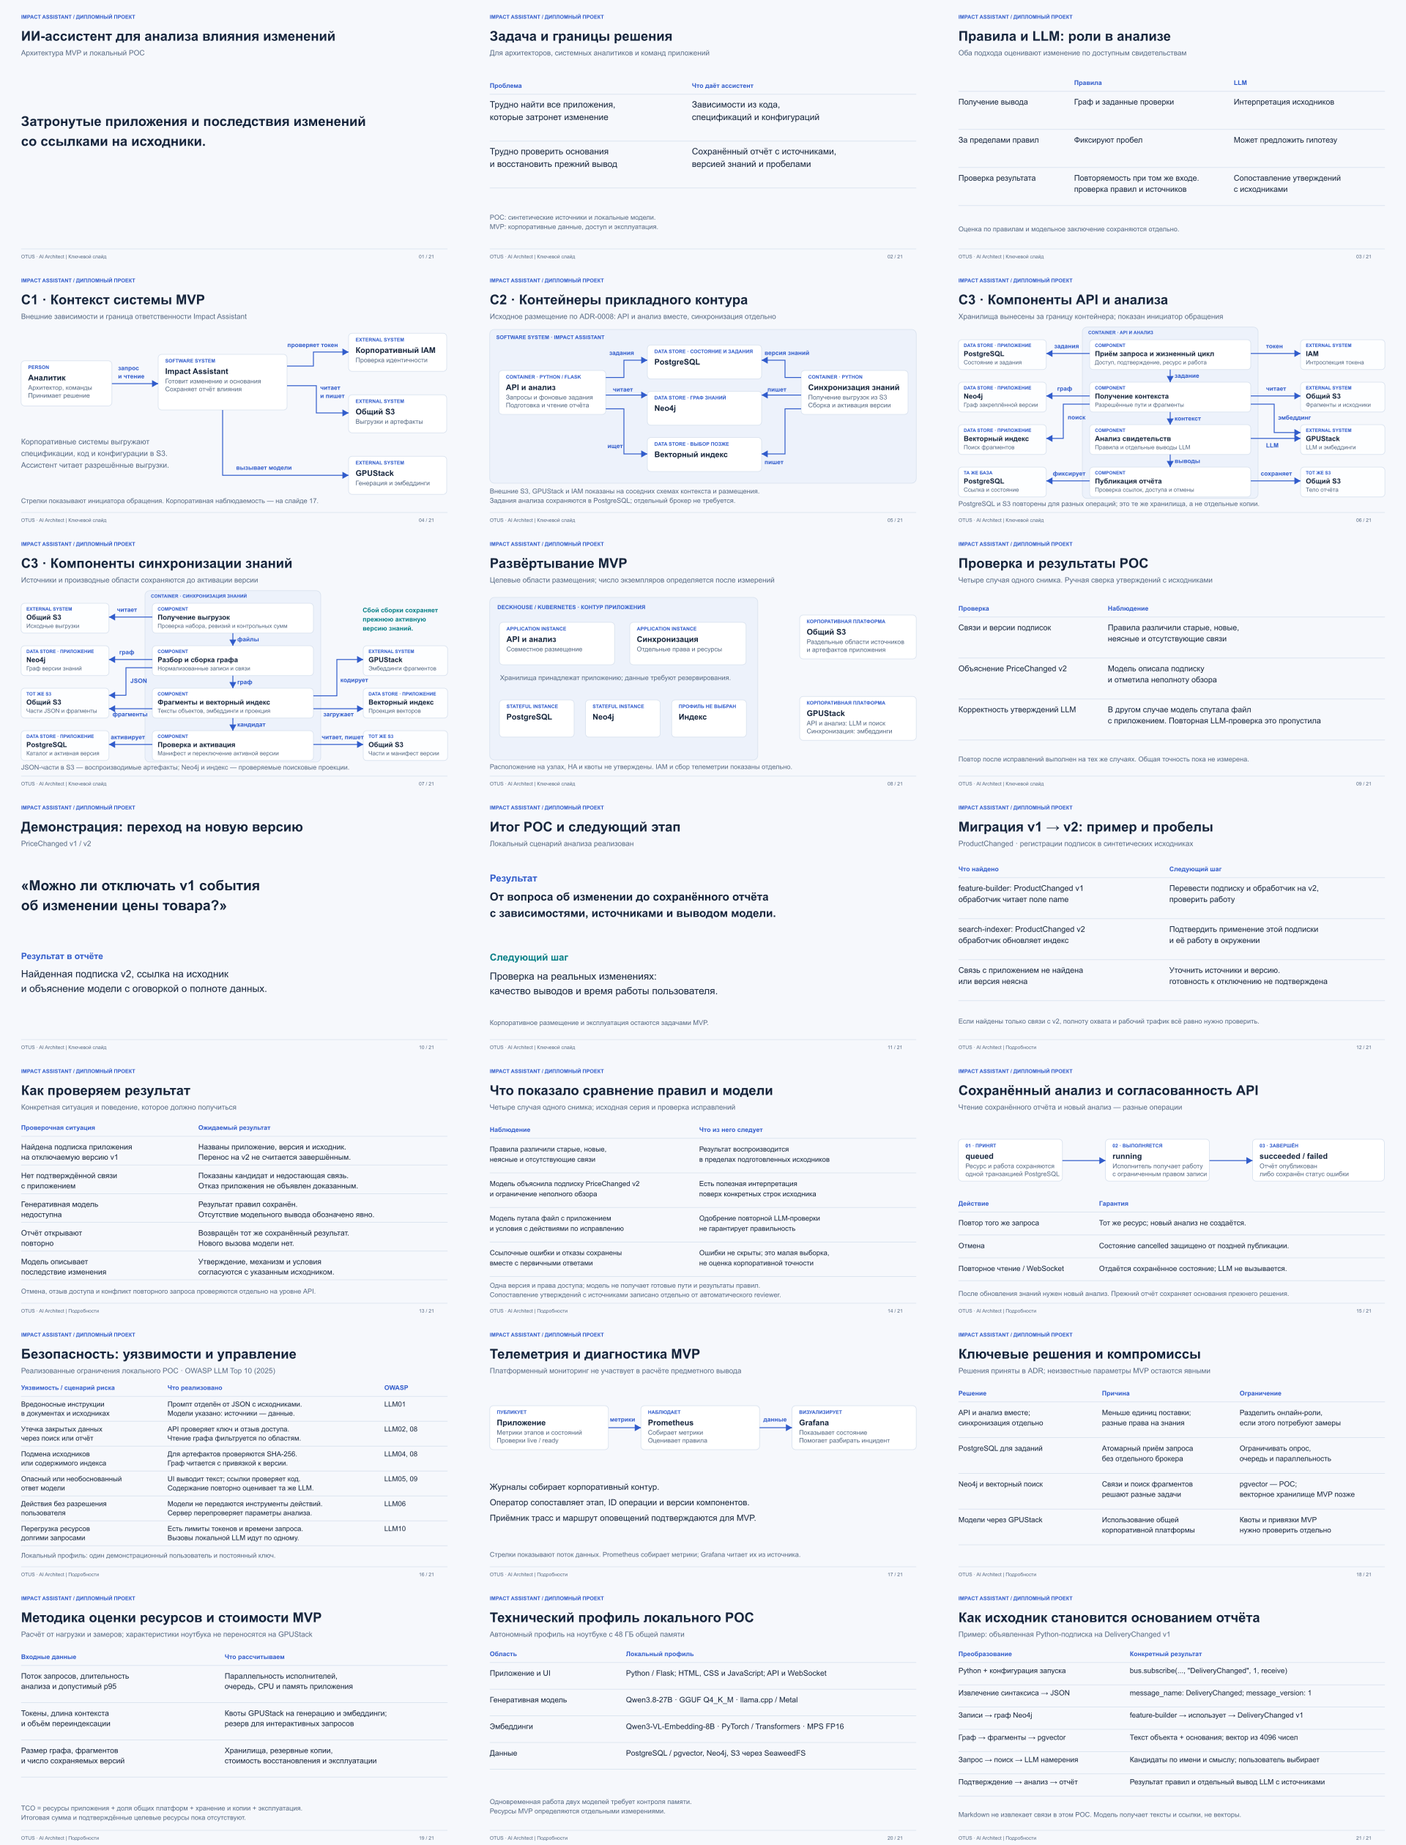
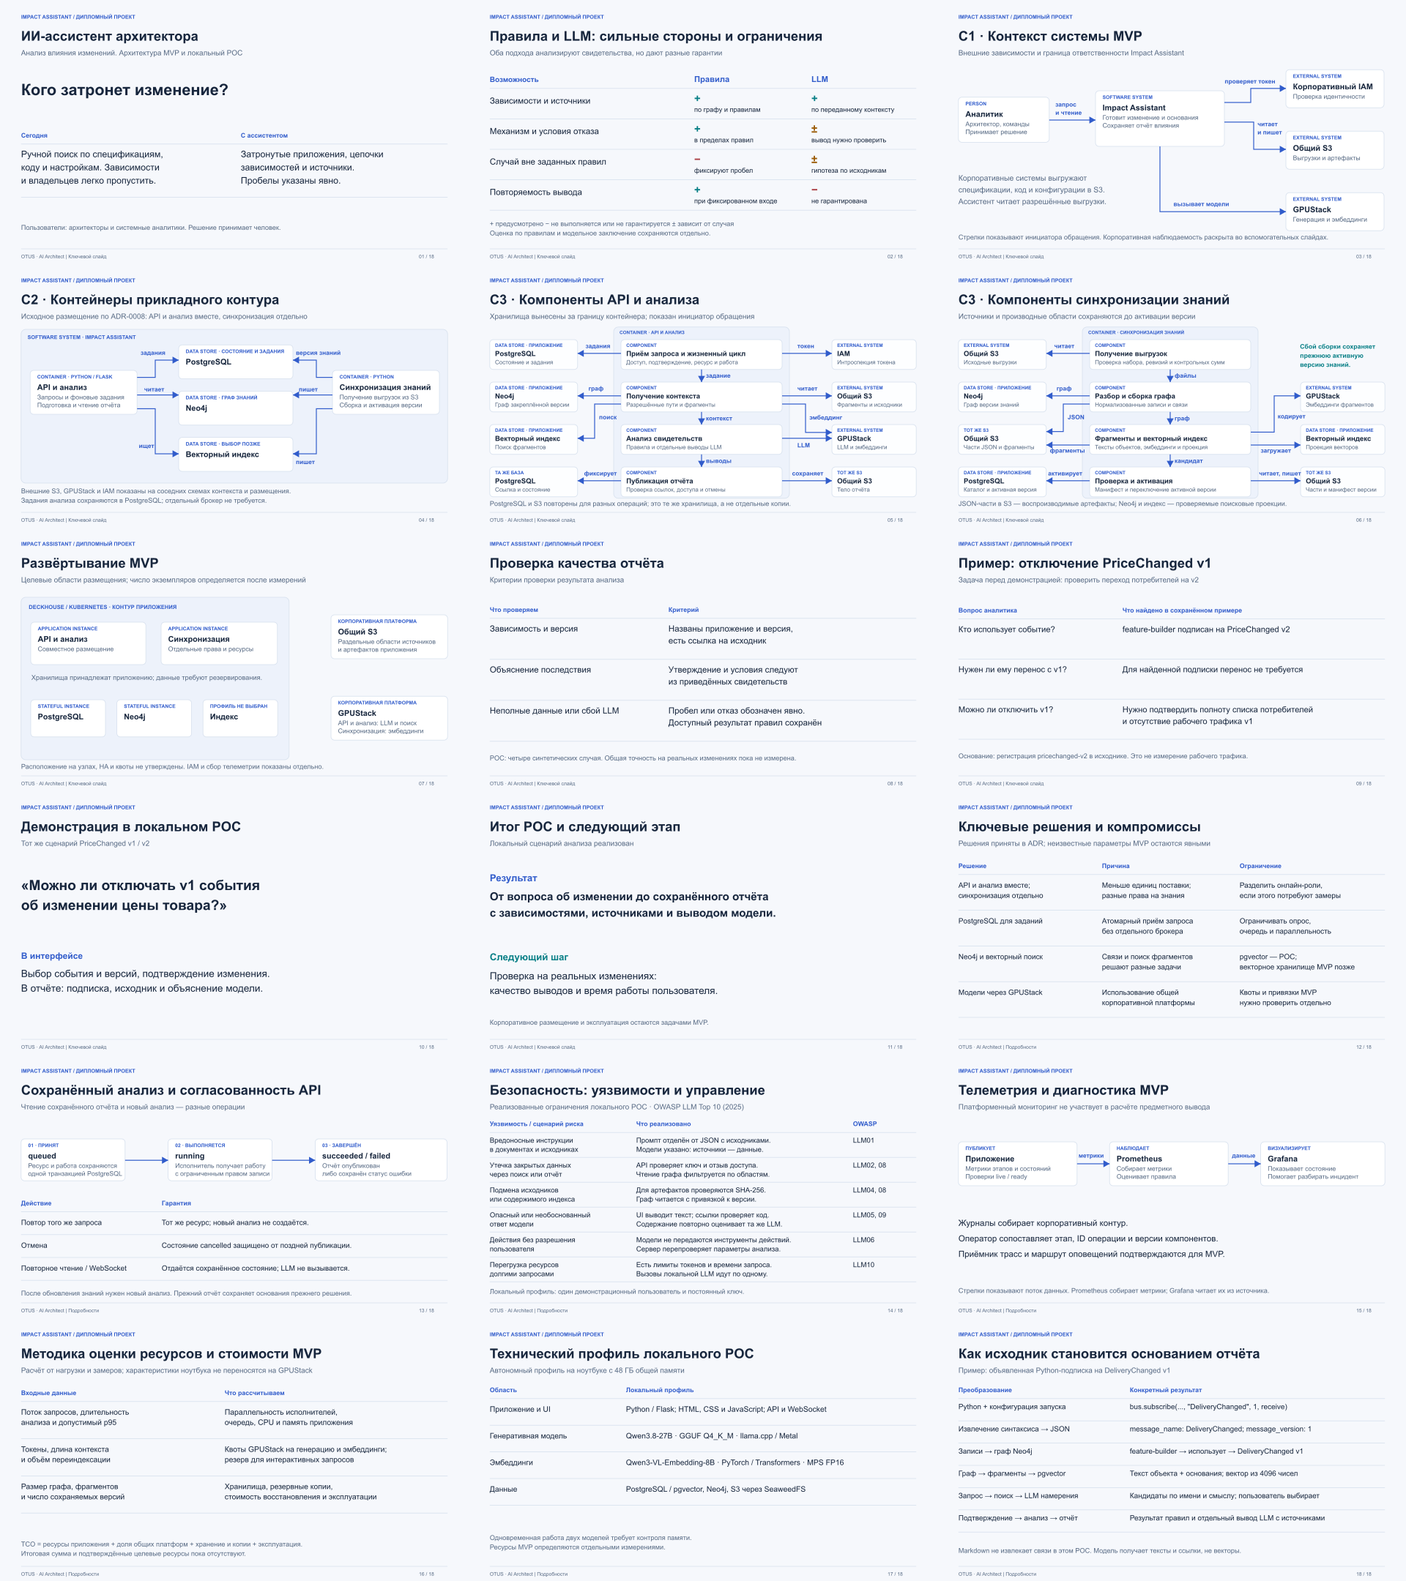
Restructure presentation around the change impact story

diff --git a/impact-assistant/index.html b/impact-assistant/index.html
@@ -1,1 +1,1 @@
-<!doctype html><html lang="ru"><meta charset="utf-8"><meta name="viewport" content="width=device-width, initial-scale=1"><title>Impact Assistant · презентация</title><style>*{box-sizing:border-box}body{margin:0;background:#17263d;color:white;font-family:Arial,sans-serif}main{display:flex;min-height:100vh;align-items:center;justify-content:center}img{width:min(100vw,177.777vh);height:auto;display:block}nav{position:fixed;bottom:10px;right:14px;background:#17263ded;padding:10px;display:flex;gap:12px;border-radius:8px}button,a{font:16px Arial;color:white;background:none;border:0;cursor:pointer}button:focus-visible,a:focus-visible{outline:2px solid #80cdda;outline-offset:3px}#toc{display:none;position:fixed;inset:35px;background:#17263df8;padding:25px;overflow:auto}#toc a{display:block;padding:8px;text-decoration:none}#toc.open{display:block}@media print{nav,#toc{display:none}}</style><main><img id="slide" alt=""></main><nav><button id="prev" aria-label="Предыдущий слайд">←</button><span id="num"></span><button id="next" aria-label="Следующий слайд">→</button><button id="mode" aria-pressed="false">Короткий показ</button><button id="contents">Слайды</button><button id="full">На весь экран</button></nav><aside id="toc"><a href="#1" data-n="1">01 · ИИ-ассистент для анализа влияния изменений · ключевой</a><a href="#2" data-n="2">02 · Задача и границы решения · ключевой</a><a href="#3" data-n="3">03 · Правила и LLM: роли в анализе · ключевой</a><a href="#4" data-n="4">04 · C1 · Контекст системы MVP · ключевой</a><a href="#5" data-n="5">05 · C2 · Контейнеры прикладного контура · ключевой</a><a href="#6" data-n="6">06 · C3 · Компоненты API и анализа · ключевой</a><a href="#7" data-n="7">07 · C3 · Компоненты синхронизации знаний · ключевой</a><a href="#8" data-n="8">08 · Развёртывание MVP · ключевой</a><a href="#9" data-n="9">09 · Проверка и результаты POC · ключевой</a><a href="#10" data-n="10">10 · Демонстрация: переход на новую версию · ключевой</a><a href="#11" data-n="11">11 · Итог POC и следующий этап · ключевой</a><a href="#12" data-n="12">12 · Миграция v1 → v2: пример и пробелы</a><a href="#13" data-n="13">13 · Как проверяем результат</a><a href="#14" data-n="14">14 · Что показало сравнение правил и модели</a><a href="#15" data-n="15">15 · Сохранённый анализ и согласованность API</a><a href="#16" data-n="16">16 · Безопасность: уязвимости и управление</a><a href="#17" data-n="17">17 · Телеметрия и диагностика MVP</a><a href="#18" data-n="18">18 · Ключевые решения и компромиссы</a><a href="#19" data-n="19">19 · Методика оценки ресурсов и стоимости MVP</a><a href="#20" data-n="20">20 · Технический профиль локального POC</a><a href="#21" data-n="21">21 · Как исходник становится основанием отчёта</a></aside><script>const slides=[{"n":1,"file":"01-title.svg","title":"ИИ-ассистент для анализа влияния изменений","time":10},{"n":2,"file":"02-problem.svg","title":"Задача и границы решения","time":20},{"n":3,"file":"03-approaches.svg","title":"Правила и LLM: роли в анализе","time":20},{"n":4,"file":"04-c1.svg","title":"C1 · Контекст системы MVP","time":15},{"n":5,"file":"05-c2.svg","title":"C2 · Контейнеры прикладного контура","time":25},{"n":6,"file":"06-c3-online.svg","title":"C3 · Компоненты API и анализа","time":25},{"n":7,"file":"07-c3-knowledge.svg","title":"C3 · Компоненты синхронизации знаний","time":25},{"n":8,"file":"08-deployment.svg","title":"Развёртывание MVP","time":15},{"n":9,"file":"09-validation.svg","title":"Проверка и результаты POC","time":30},{"n":10,"file":"10-demo.svg","title":"Демонстрация: переход на новую версию","time":95},{"n":11,"file":"11-result.svg","title":"Итог POC и следующий этап","time":20},{"n":12,"file":"12-migration-case.svg","title":"Миграция v1 → v2: пример и пробелы","time":0},{"n":13,"file":"13-quality.svg","title":"Как проверяем результат","time":0},{"n":14,"file":"14-evaluation.svg","title":"Что показало сравнение правил и модели","time":0},{"n":15,"file":"15-lifecycle.svg","title":"Сохранённый анализ и согласованность API","time":0},{"n":16,"file":"16-security.svg","title":"Безопасность: уязвимости и управление","time":0},{"n":17,"file":"17-observability.svg","title":"Телеметрия и диагностика MVP","time":0},{"n":18,"file":"18-decisions.svg","title":"Ключевые решения и компромиссы","time":0},{"n":19,"file":"19-capacity.svg","title":"Методика оценки ресурсов и стоимости MVP","time":0},{"n":20,"file":"20-local.svg","title":"Технический профиль локального POC","time":0},{"n":21,"file":"21-pipeline.svg","title":"Как исходник становится основанием отчёта","time":0}];const mainRoute=slides.filter(s=>s.time).map(s=>s.n);let n=1,short=false;const byId=id=>document.getElementById(id);function route(){return short?mainRoute:slides.map(s=>s.n)}function show(){const raw=Number.parseInt(location.hash.slice(1),10);n=Math.max(1,Math.min(slides.length,Number.isFinite(raw)?raw:1));const s=slides[n-1];byId('slide').src=s.file;byId('slide').alt=s.title;byId('num').textContent=n+' / '+slides.length;byId('toc').classList.remove('open')}function go(d){const r=route();const next=d>0?r.find(v=>v>n):r.slice().reverse().find(v=>v<n);if(next)location.hash=next}byId('prev').onclick=()=>go(-1);byId('next').onclick=()=>go(1);byId('mode').onclick=()=>{short=!short;byId('mode').textContent=short?'Все слайды':'Короткий показ';byId('mode').setAttribute('aria-pressed',String(short));if(short&&!mainRoute.includes(n))location.hash=mainRoute.find(v=>v>=n)||mainRoute[mainRoute.length-1]};byId('contents').onclick=()=>byId('toc').classList.toggle('open');byId('full').onclick=()=>{const op=document.fullscreenElement?document.exitFullscreen?.():document.documentElement.requestFullscreen?.();op?.catch(()=>{})};addEventListener('hashchange',show);addEventListener('keydown',e=>{if(e.target.closest('button,a,input,select,textarea'))return;if(['ArrowRight','PageDown',' '].includes(e.key)){e.preventDefault();go(1)}if(['ArrowLeft','PageUp'].includes(e.key)){e.preventDefault();go(-1)}if(e.key==='Home'){e.preventDefault();location.hash=route()[0]}if(e.key==='End'){e.preventDefault();location.hash=route().at(-1)}if(e.key==='Escape')byId('toc').classList.remove('open')});show();</script></html>
+<!doctype html><html lang="ru"><meta charset="utf-8"><meta name="viewport" content="width=device-width, initial-scale=1"><title>Impact Assistant · презентация</title><style>*{box-sizing:border-box}body{margin:0;background:#17263d;color:white;font-family:Arial,sans-serif}main{display:flex;min-height:100vh;align-items:center;justify-content:center}img{width:min(100vw,177.777vh);height:auto;display:block}nav{position:fixed;bottom:10px;right:14px;background:#17263ded;padding:10px;display:flex;gap:12px;border-radius:8px}button,a{font:16px Arial;color:white;background:none;border:0;cursor:pointer}button:focus-visible,a:focus-visible{outline:2px solid #80cdda;outline-offset:3px}#toc{display:none;position:fixed;inset:35px;background:#17263df8;padding:25px;overflow:auto}#toc a{display:block;padding:8px;text-decoration:none}#toc.open{display:block}@media print{nav,#toc{display:none}}</style><main><img id="slide" alt=""></main><nav><button id="prev" aria-label="Предыдущий слайд">←</button><span id="num"></span><button id="next" aria-label="Следующий слайд">→</button><button id="mode" aria-pressed="false">Короткий показ</button><button id="contents">Слайды</button><button id="full">На весь экран</button></nav><aside id="toc"><h2>Основной рассказ</h2><a href="#1" data-n="1">01 · ИИ-ассистент архитектора · ключевой</a><a href="#2" data-n="2">02 · Правила и LLM: сильные стороны и ограничения · ключевой</a><a href="#3" data-n="3">03 · C1 · Контекст системы MVP · ключевой</a><a href="#4" data-n="4">04 · C2 · Контейнеры прикладного контура · ключевой</a><a href="#5" data-n="5">05 · C3 · Компоненты API и анализа · ключевой</a><a href="#6" data-n="6">06 · C3 · Компоненты синхронизации знаний · ключевой</a><a href="#7" data-n="7">07 · Развёртывание MVP · ключевой</a><a href="#8" data-n="8">08 · Проверка качества отчёта · ключевой</a><a href="#9" data-n="9">09 · Пример: отключение PriceChanged v1 · ключевой</a><a href="#10" data-n="10">10 · Демонстрация в локальном POC · ключевой</a><a href="#11" data-n="11">11 · Итог POC и следующий этап · ключевой</a><h2>Вспомогательные слайды</h2><a href="#12" data-n="12">12 · Ключевые решения и компромиссы</a><a href="#13" data-n="13">13 · Сохранённый анализ и согласованность API</a><a href="#14" data-n="14">14 · Безопасность: уязвимости и управление</a><a href="#15" data-n="15">15 · Телеметрия и диагностика MVP</a><a href="#16" data-n="16">16 · Методика оценки ресурсов и стоимости MVP</a><a href="#17" data-n="17">17 · Технический профиль локального POC</a><a href="#18" data-n="18">18 · Как исходник становится основанием отчёта</a></aside><script>const slides=[{"n":1,"file":"01-title.svg","title":"ИИ-ассистент архитектора","time":30},{"n":2,"file":"02-approaches.svg","title":"Правила и LLM: сильные стороны и ограничения","time":30},{"n":3,"file":"03-c1.svg","title":"C1 · Контекст системы MVP","time":15},{"n":4,"file":"04-c2.svg","title":"C2 · Контейнеры прикладного контура","time":25},{"n":5,"file":"05-c3-online.svg","title":"C3 · Компоненты API и анализа","time":25},{"n":6,"file":"06-c3-knowledge.svg","title":"C3 · Компоненты синхронизации знаний","time":25},{"n":7,"file":"07-deployment.svg","title":"Развёртывание MVP","time":15},{"n":8,"file":"08-quality.svg","title":"Проверка качества отчёта","time":20},{"n":9,"file":"09-migration-case.svg","title":"Пример: отключение PriceChanged v1","time":20},{"n":10,"file":"10-demo.svg","title":"Демонстрация в локальном POC","time":75},{"n":11,"file":"11-result.svg","title":"Итог POC и следующий этап","time":20},{"n":12,"file":"12-decisions.svg","title":"Ключевые решения и компромиссы","time":0},{"n":13,"file":"13-lifecycle.svg","title":"Сохранённый анализ и согласованность API","time":0},{"n":14,"file":"14-security.svg","title":"Безопасность: уязвимости и управление","time":0},{"n":15,"file":"15-observability.svg","title":"Телеметрия и диагностика MVP","time":0},{"n":16,"file":"16-capacity.svg","title":"Методика оценки ресурсов и стоимости MVP","time":0},{"n":17,"file":"17-local.svg","title":"Технический профиль локального POC","time":0},{"n":18,"file":"18-pipeline.svg","title":"Как исходник становится основанием отчёта","time":0}];const mainRoute=slides.filter(s=>s.time).map(s=>s.n);let n=1,short=false;const byId=id=>document.getElementById(id);function route(){return short?mainRoute:slides.map(s=>s.n)}function show(){const raw=Number.parseInt(location.hash.slice(1),10);n=Math.max(1,Math.min(slides.length,Number.isFinite(raw)?raw:1));const s=slides[n-1];byId('slide').src=s.file;byId('slide').alt=s.title;byId('num').textContent=n+' / '+slides.length;byId('toc').classList.remove('open')}function go(d){const r=route();const next=d>0?r.find(v=>v>n):r.slice().reverse().find(v=>v<n);if(next)location.hash=next}byId('prev').onclick=()=>go(-1);byId('next').onclick=()=>go(1);byId('mode').onclick=()=>{short=!short;byId('mode').textContent=short?'Все слайды':'Короткий показ';byId('mode').setAttribute('aria-pressed',String(short));if(short&&!mainRoute.includes(n))location.hash=mainRoute.find(v=>v>=n)||mainRoute[mainRoute.length-1]};byId('contents').onclick=()=>byId('toc').classList.toggle('open');byId('full').onclick=()=>{const op=document.fullscreenElement?document.exitFullscreen?.():document.documentElement.requestFullscreen?.();op?.catch(()=>{})};addEventListener('hashchange',show);addEventListener('keydown',e=>{if(e.target.closest('button,a,input,select,textarea'))return;if(['ArrowRight','PageDown',' '].includes(e.key)){e.preventDefault();go(1)}if(['ArrowLeft','PageUp'].includes(e.key)){e.preventDefault();go(-1)}if(e.key==='Home'){e.preventDefault();location.hash=route()[0]}if(e.key==='End'){e.preventDefault();location.hash=route().at(-1)}if(e.key==='Escape')byId('toc').classList.remove('open')});show();</script></html>

diff --git a/impact-assistant/README.md b/impact-assistant/README.md
@@ -4,8 +4,10 @@
 
 [Открыть презентацию](https://avkuzmin.github.io/impact-assistant/)
 
-21 слайд. Основной показ: 01–11, 5 минут. Архитектура: 04–08. Подробности: 12–21.
+18 слайдов. Основной рассказ: 01–11, 5 минут. Архитектура: 03–07. Вспомогательные материалы: 12–18.
+
+Последовательность: задача пользователя, сравнение правил и LLM, архитектура, проверка качества, пример PriceChanged, демонстрация и итог POC.
 
 Стрелки и пробел переключают слайды. Кнопка «Короткий показ» включает основной маршрут, «Слайды» открывает оглавление. Каждый слайд доступен по ссылке с номером, например `#9`.
 
-Статический просмотрщик работает без сервера приложения и внешних зависимостей.
+Статический просмотрщик работает без сервера приложения и внешних зависимостей. Для демонстрации приложения используется локальный POC.
